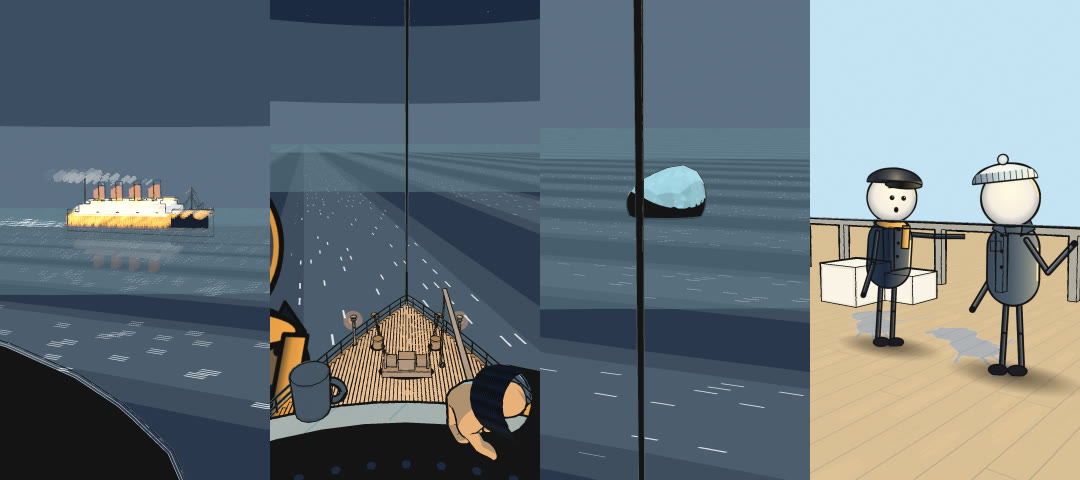
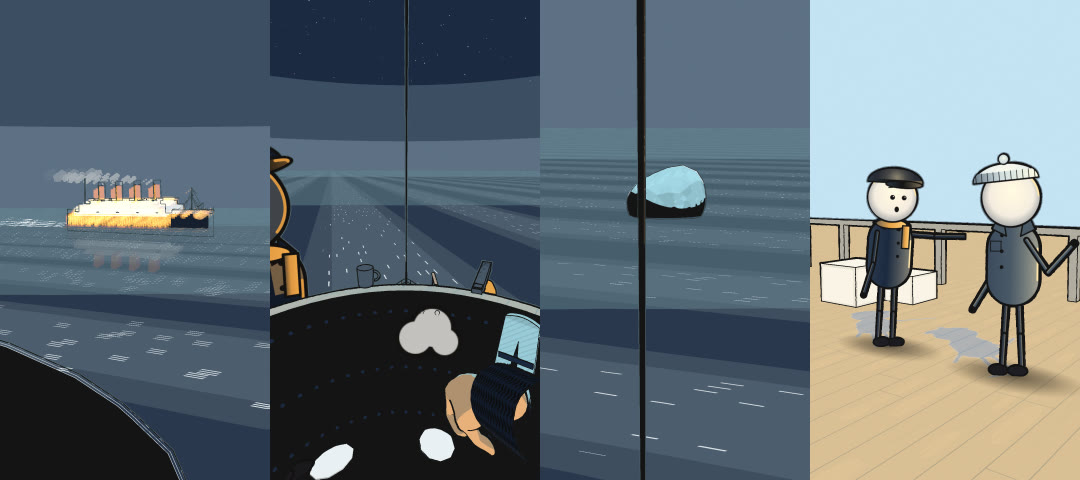
review: styleframes [skip ci]

diff --git a/review/styleframes/critique.md b/review/styleframes/critique.md
@@ -1,28 +1,38 @@
-# Style frame critique (look 2.1, round 3, commit 089746e)
+# Style frame critique (generated by tools/stills.mjs, commit 73552e7)
 
-Aerial frame 0 and the money shot are the new frames. Rounds used: 1 + 2 (per-material controls and light positions only). Stills do not pass fully, see "Open".
+Facts from tools/measure.mjs; regenerated on every stills run.
 
-## F1_aerial (aerial frame 0): lumaMean 83.4, dark40 12.1%, p5 20, p95 126 MISS, sat 0.299 MISS; notan dark 19.1 (WARN) / mid 78.5 / light 2.4
-- Value structure: a mid-tone frame. The near-black iceberg fills the bottom-left, the ship is the only light mass in the middle band; sky and sea are flat mid bands. Dark mass is 19.1%, just under the 20% WARN.
-- Focal point: the ship's midships is the brightest cluster (12 cells, peak 202), 0 cells from the focus anchor.
-- Ink weight: the iceberg is solid ink with a thin frost edge on its top only; the ship carries thin ink at 850 m (x0.35), so she reads as a light shape, not a lined one.
-- Depth layers: iceberg (foreground, bottom-left), ship (middle), sea and sky (background). The sea between is empty.
-- Readability at phone size: the ship spans 60% of the width, three-quarter on, with four funnels, white superstructure and an amber porthole band. Funnel smoke and the reflection read. p95 stays low because the lit area (ship) is under 5% of the frame.
+## F1_aerial: Aerial frame 0: telephoto from the iceberg's crest, the ship three-quarter at 850 m (focus: ship midships)
+- lumaMean 84.3, dark40 12.1%, p5 20, p95 129 MISS, sat 0.299
+- notan dark 19.1% / mid 78.1% / light 2.8% (dark-mass WARN)
+- brightest cluster 11 cells, peak luma 230, 0 cells from the focus anchor (ok)
+- image: https://github.com/NeatKnight18586/inktime/raw/renders/renders/styleframes/F1_aerial.png
 
-## F2_lookout (lookout at 2 s): p5 20, mean 81.3, p95 174, dark40 16.6%; notan dark 24.8 / mid 70.1 / light 5.0. All targets met
-- Value structure: black basket along the bottom, lit amber deck, mid sky/sea; the top 60% is still a flat run of mid bands.
-- Focal point: the brightest cluster is the hand (cell 16,26), 1 cell from the hand anchor. Fleet's card is no longer the brightest: his card is dark, with only brim, shoulder and scarf lit.
-- Ink weight: the hand has an 8 px class outline from the skinned hull, the cuff a heavy one; the cap rail is now a thin line.
-- Depth layers: the hand and the rail are the foreground, the lit forecastle the midground, the sea and horizon the background.
-- Readability at phone size: the hand reads as a gripping fist with a knit cuff. Seen from behind and above it is foreshortened; the pose (wrist) is fixed after round 1, so it was not changed in later rounds.
+## F2_lookout: Lookout at 2 s: the hands and the deck lamps are the brightest; Fleet dark at the left (focus: hands and deck lamps)
+- lumaMean 63.4 MISS, dark40 33.0%, p5 20, p95 174, sat 0.280
+- notan dark 50.2% / mid 46.7% / light 3.1%
+- brightest cluster 2 cells, peak luma 239, 9 cells from the focus anchor (WARN)
+- image: https://github.com/NeatKnight18586/inktime/raw/renders/renders/styleframes/F2_lookout.png
 
-## F3_money (money shot, vFOV 20, 457 m): lumaMean 95.1 MISS (limit 95), p95 118 MISS; p5 and dark40 n/a (insert); notan dark 9.5 / mid 88.9 / light 1.6
-- Value structure: the frost-lit crest is the only light mass; below it the berg is solid ink. The rest is mid sea and sky.
-- Focal point: the brightest cluster (6 cells, peak 201) sits on the crest, 0 cells from the anchor.
-- Ink weight: the forestay is a heavy vertical ink line through the centre of the berg; the berg shows a thin frost edge.
-- Depth layers: berg and horizon are background only; the stay is the sole foreground element.
-- Readability at phone size: the berg is 207 px tall (target 90), centred at 40% height, the bow is out of frame.
+## F3_money: Money shot: subjective snap zoom to vFOV 20, iceberg at 457 m centred at 40% height, the bow out of frame (insert: p5 and dark40 do not apply)
+- lumaMean 95.1 MISS, dark40 2.8%, p5 54, p95 118 MISS, sat 0.314
+- notan dark 8.7% / mid 89.8% / light 1.6% (dark-mass WARN)
+- brightest cluster 6 cells, peak luma 199, 0 cells from the focus anchor (ok)
+- image: https://github.com/NeatKnight18586/inktime/raw/renders/renders/styleframes/F3_money.png
 
-## Open (look frozen for Episode 1; ideas go to docs/LEARNINGS.md)
-- F1 p95 126 (target 170), sat 0.299 (0.30), notan dark 19.1% (20%): a single aerial frame has too little lit area. The per-shot figures come from the full looktest render, which was not run.
-- F3 p95 118 (170) and lumaMean 95.1 (95): the insert is a small bright patch in a mid frame.
+## F4_day: Day proof: Fleet and Lee on a plain deck at a 3/4 camera angle, sun from the upper right, shadows on the planks (focus: both characters)
+- lumaMean 190.4, dark40 3.8%, p5 51, p95 222, sat 0.229
+- notan dark 1.2% / mid 10.6% / light 88.2% (dark-mass WARN)
+- brightest cluster 4 cells, peak luma 245, 5 cells from the focus anchor (WARN)
+- image: https://github.com/NeatKnight18586/inktime/raw/renders/renders/styleframes/F4_day.png
+
+## See-through test: PASS
+sampled 92195 pixels inside the card body (mask eroded 10 px); 0 differ between striped and plain wall (max channel diff 0, tolerance 8)
+
+## Open
+- F1_aerial: overall p95
+- F2_lookout: overall lumaMean
+- F3_money: overall lumaMean, overall p95
+
+Contact sheet: https://github.com/NeatKnight18586/inktime/raw/renders/renders/styleframes/contact.jpg
+Notan sheet: https://github.com/NeatKnight18586/inktime/raw/renders/renders/styleframes/notan.png
